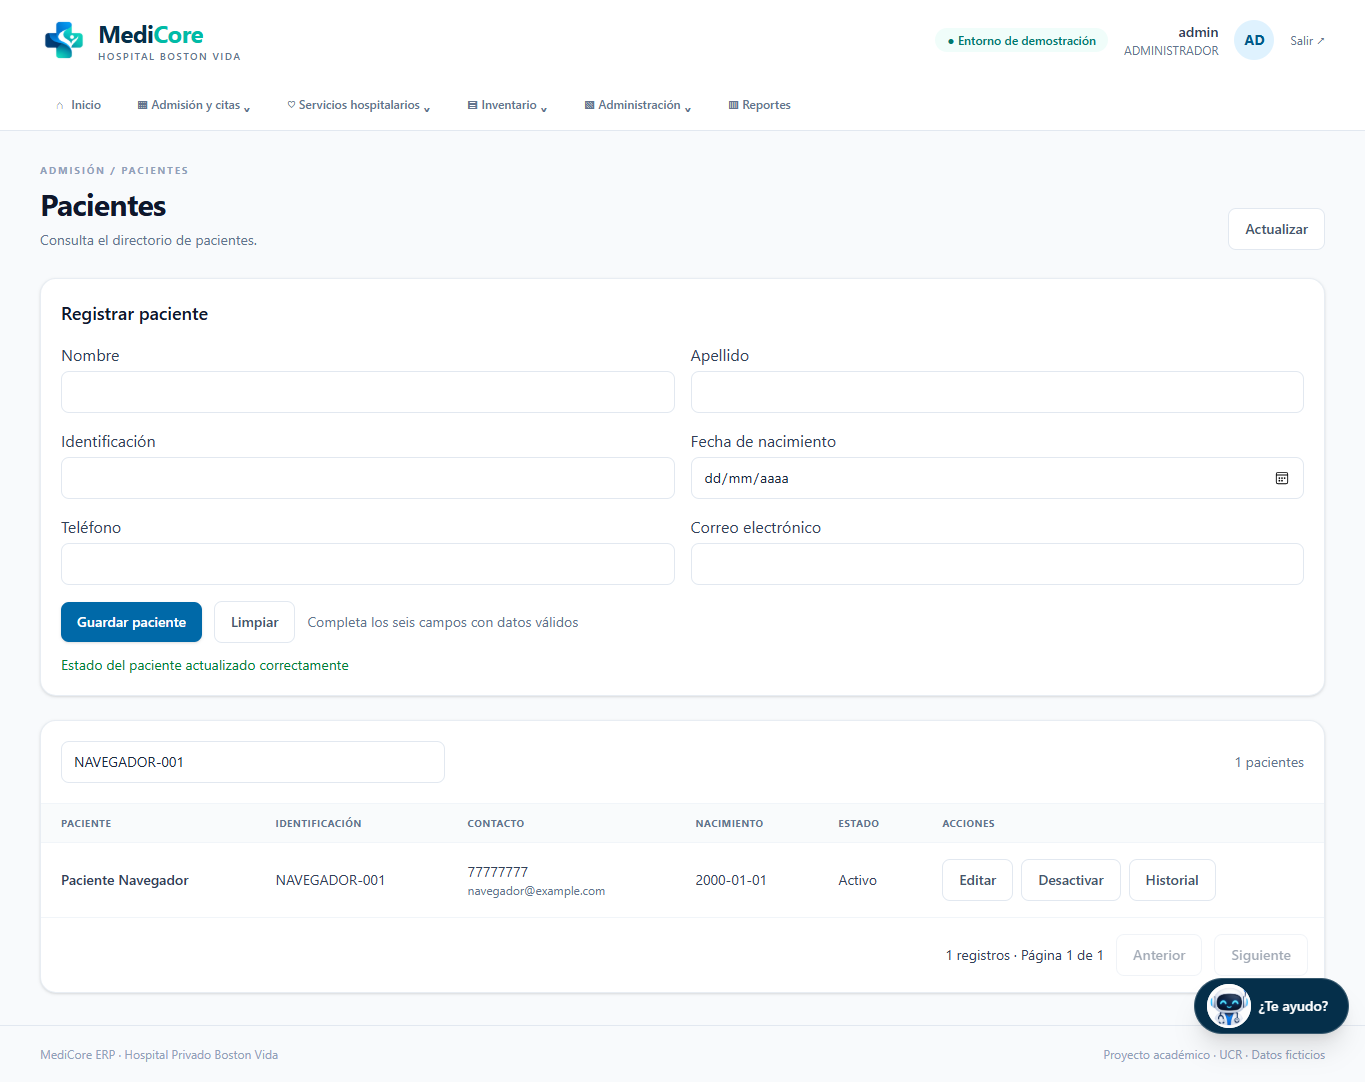
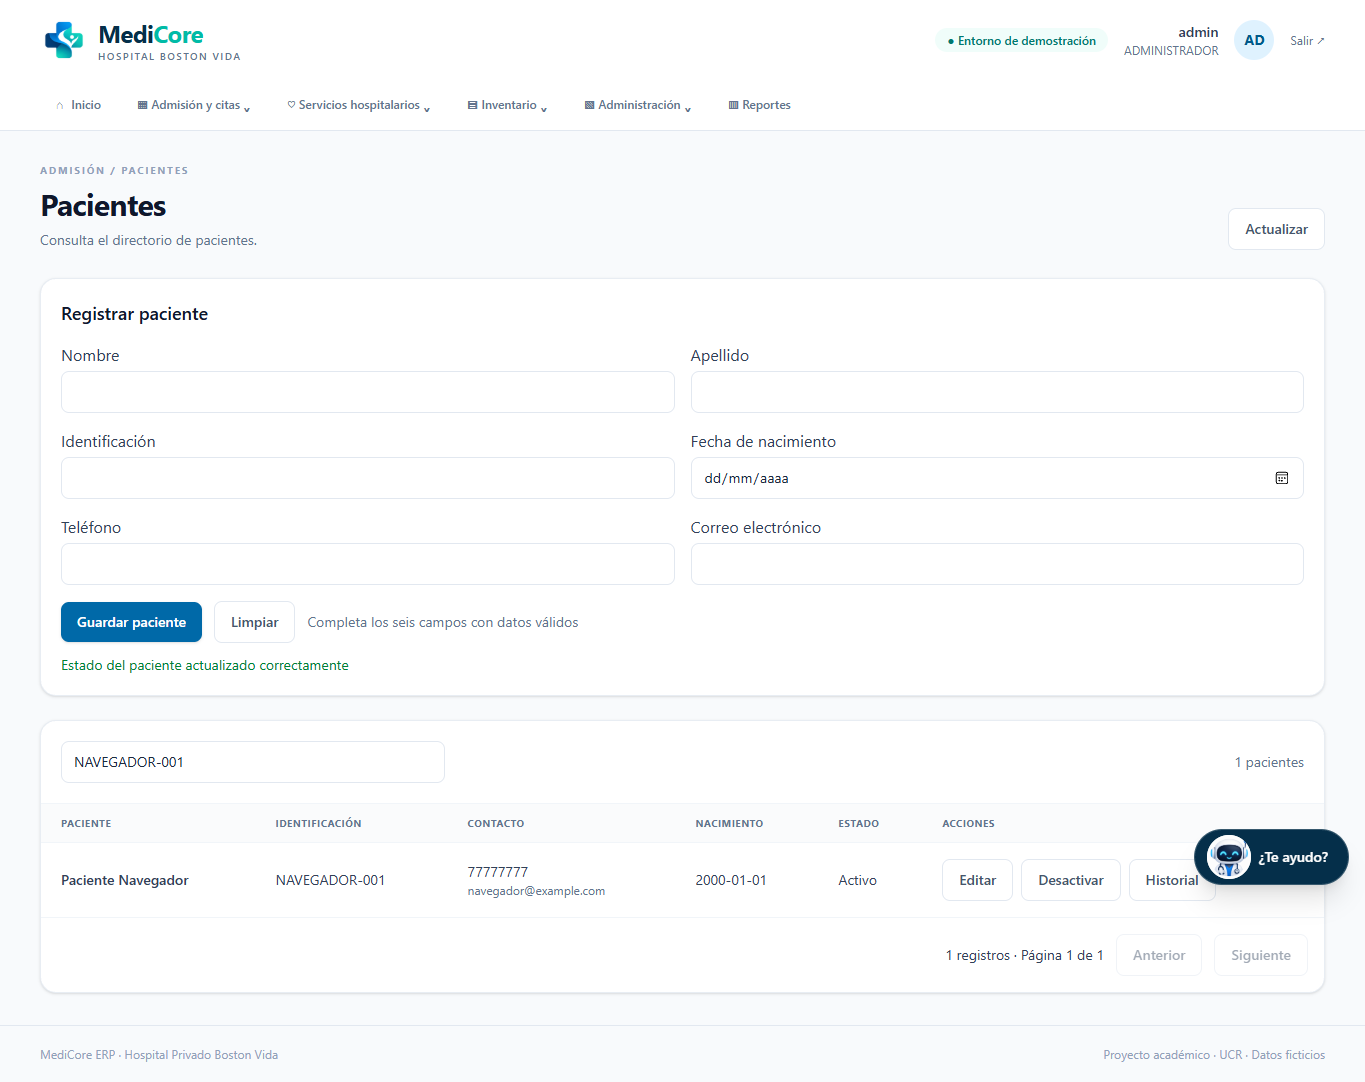
Cambios

Changed region(s): [[0.8615, 0.8845, 1.0, 0.976], [0.8615, 0.7625, 0.9846, 0.8235]]

diff --git a/backend/scripts/verificar-sistema.js b/backend/scripts/verificar-sistema.js
@@ -1,0 +1,152 @@
+import "dotenv/config";
+import assert from "node:assert/strict";
+import { readdir } from "node:fs/promises";
+import prisma from "../src/config/prisma.js";
+import { usuariosBase } from "../prisma/seeds/base/usuarios.seed.js";
+
+// Solo lectura: no siembra, no restablece contraseñas ni modifica registros.
+const base = `http://localhost:${process.env.PORT || 3000}/api`;
+const resultados = [];
+async function comprobar(nombre, accion) {
+  try {
+    const detalle = await accion();
+    resultados.push({ nombre, correcto: true, ...(detalle === undefined ? {} : { detalle }) });
+    console.log(`OK: ${nombre}`);
+  } catch {
+    resultados.push({ nombre, correcto: false });
+    // No imprimir errores de conexión que pudieran contener credenciales.
+    console.error(`FALLO: ${nombre}`);
+  }
+}
+async function pedir(ruta, token, datos) {
+  const respuesta = await fetch(base + ruta, {
+    method: datos ? "POST" : "GET",
+    headers: {
+      ...(token ? { Authorization: `Bearer ${token}` } : {}),
+      ...(datos ? { "Content-Type": "application/json" } : {}),
+    },
+    ...(datos ? { body: JSON.stringify(datos) } : {}),
+    signal: AbortSignal.timeout(10000),
+  });
+  return { status: respuesta.status, body: await respuesta.json() };
+}
+
+try {
+  await comprobar("PostgreSQL responde", async () => { await prisma.$queryRaw`SELECT 1`; });
+  await comprobar("Migraciones aplicadas", async () => {
+    const carpetas = await readdir(new URL("../prisma/migrations/", import.meta.url), { withFileTypes: true });
+    const filas = await prisma.$queryRaw`SELECT migration_name, finished_at, rolled_back_at FROM _prisma_migrations`;
+    for (const carpeta of carpetas.filter((c) => c.isDirectory())) {
+      assert.ok(filas.some((f) => f.migration_name === carpeta.name && f.finished_at && !f.rolled_back_at));
+    }
+    assert.ok(!filas.some((f) => !f.finished_at && !f.rolled_back_at));
+  });
+  await comprobar("API en ejecución conectada a PostgreSQL", async () => {
+    const r = await pedir("/health");
+    assert.equal(r.status, 200);
+    assert.equal(r.body.data.database, "connected");
+  });
+  await comprobar("Frontend en ejecución", async () => {
+    const r = await fetch("http://localhost:4200", { signal: AbortSignal.timeout(10000) });
+    assert.equal(r.status, 200);
+    assert.match(await r.text(), /<html/i);
+  });
+  await comprobar("CORS permite al frontend enviar credenciales Bearer", async () => {
+    const r = await fetch(base + "/auth/me", {
+      method: "OPTIONS",
+      headers: { Origin: "http://localhost:4200", "Access-Control-Request-Method": "GET", "Access-Control-Request-Headers": "authorization" },
+      signal: AbortSignal.timeout(10000),
+    });
+    assert.equal(r.status, 204);
+    assert.equal(r.headers.get("access-control-allow-origin"), "http://localhost:4200");
+    assert.match(r.headers.get("access-control-allow-headers") ?? "", /authorization/i);
+  });
+  await comprobar("Rutas protegidas sin sesión", async () => {
+    for (const ruta of ["/pacientes", "/citas", "/atenciones/paginados", "/insumos", "/usuarios", "/reportes"]) {
+      assert.equal((await pedir(ruta)).status, 401, ruta);
+    }
+  });
+
+  const rutas = {
+    ADMINISTRADOR: ["/pacientes", "/citas", "/medicos", "/atenciones/paginados", "/atenciones/catalogos", "/atenciones/pendientes", "/atenciones/resumen", "/insumos", "/insumos/resumen", "/categorias-insumos", "/movimientos-inventario", "/servicios", "/usuarios", "/reportes"],
+    ADMISION: ["/pacientes", "/citas", "/medicos"],
+    MEDICO: ["/citas", "/medicos", "/atenciones/paginados", "/atenciones/catalogos", "/atenciones/pendientes", "/atenciones/resumen", "/servicios"],
+    INVENTARIO: ["/insumos", "/insumos/resumen", "/categorias-insumos", "/movimientos-inventario"],
+  };
+  for (const usuario of usuariosBase) {
+    await comprobar(`Acceso y consultas: ${usuario.nombre_usuario}`, async () => {
+      assert.ok(process.env[usuario.passwordEnv]);
+      const login = await pedir("/auth/login", null, {
+        nombre_usuario: usuario.nombre_usuario,
+        password: process.env[usuario.passwordEnv],
+      });
+      assert.equal(login.status, 200);
+      const { token, usuario: identidad } = login.body.data;
+      assert.equal(identidad.rol, usuario.rol);
+      for (const ruta of ["/auth/me", "/inicio/resumen", ...rutas[usuario.rol]]) {
+        const r = await pedir(ruta, token);
+        assert.equal(r.status, 200, ruta);
+        if (usuario.rol === "MEDICO" && ["/citas", "/atenciones/paginados", "/atenciones/pendientes"].includes(ruta)) {
+          assert.ok(r.body.data.every((fila) => fila.id_medico === identidad.id_medico));
+        }
+      }
+      if (usuario.rol !== "ADMINISTRADOR") {
+        assert.equal((await pedir("/usuarios", token)).status, 403);
+        assert.equal((await pedir("/reportes", token)).status, 403);
+      } else {
+        // Compara datos de la API que está ejecutándose con DATABASE_URL.
+        for (const [ruta, tabla] of [["/pacientes", "pacientes"], ["/citas", "citas"], ["/usuarios", "usuarios"], ["/medicos", "medicos"], ["/movimientos-inventario", "movimientos_inventario"]]) {
+          assert.equal((await pedir(ruta, token)).body.data.length, await prisma[tabla].count(), ruta);
+        }
+        const reporte = (await pedir("/reportes", token)).body.data;
+        assert.equal(reporte.total_citas, await prisma.citas.count());
+        assert.equal(reporte.total_atenciones, await prisma.atenciones.count());
+        assert.equal(reporte.total_movimientos, await prisma.movimientos_inventario.count());
+        assert.equal((await pedir("/atenciones/paginados", token)).body.paginacion.total_elementos, await prisma.atenciones.count());
+        for (const ruta of ["/insumos/paginados?page=0", "/movimientos-inventario/paginados?page=0", "/citas/paginados?page=9007199254740991", "/citas/resumen?id_medico=9223372036854775808"]) {
+          assert.equal((await pedir(ruta, token)).status, 400, ruta);
+        }
+      }
+      return { rol: identidad.rol, consultas: rutas[usuario.rol].length + 2 };
+    });
+  }
+
+  const integridad = {
+    "Existencias no negativas": "SELECT count(*)::int AS errores FROM insumos WHERE stock_actual < 0",
+    "Existencias coinciden con movimientos": "SELECT count(*)::int AS errores FROM insumos i LEFT JOIN (SELECT id_insumo, SUM(CASE WHEN tipo_movimiento='ENTRADA' THEN cantidad ELSE -cantidad END) AS saldo FROM movimientos_inventario GROUP BY id_insumo) m USING(id_insumo) WHERE i.stock_actual <> COALESCE(m.saldo,0)",
+    "Citas atendidas tienen atención": "SELECT count(*)::int AS errores FROM citas c LEFT JOIN atenciones a USING(id_cita) WHERE c.estado='ATENDIDA' AND a.id_atencion IS NULL",
+    "Atenciones corresponden a citas atendidas": "SELECT count(*)::int AS errores FROM atenciones a JOIN citas c USING(id_cita) WHERE c.estado<>'ATENDIDA'",
+    "Consumos tienen salida de inventario correspondiente": "SELECT count(*)::int AS errores FROM consumo_insumos_atencion c LEFT JOIN movimientos_inventario m USING(id_consumo) WHERE m.id_movimiento IS NULL OR m.cantidad<>c.cantidad OR m.id_insumo<>c.id_insumo OR m.id_atencion<>c.id_atencion OR m.tipo_movimiento<>'SALIDA'",
+    "Médicos sin citas activas solapadas": "SELECT count(*)::int AS errores FROM citas a JOIN citas b ON a.id_cita<b.id_cita AND a.id_medico=b.id_medico AND a.fecha_hora_inicio<b.fecha_hora_fin AND b.fecha_hora_inicio<a.fecha_hora_fin WHERE a.estado IN ('PROGRAMADA','CONFIRMADA') AND b.estado IN ('PROGRAMADA','CONFIRMADA')",
+    "Pacientes sin citas activas solapadas": "SELECT count(*)::int AS errores FROM citas a JOIN citas b ON a.id_cita<b.id_cita AND a.id_paciente=b.id_paciente AND a.fecha_hora_inicio<b.fecha_hora_fin AND b.fecha_hora_inicio<a.fecha_hora_fin WHERE a.estado IN ('PROGRAMADA','CONFIRMADA') AND b.estado IN ('PROGRAMADA','CONFIRMADA')",
+  };
+  for (const [nombre, sql] of Object.entries(integridad)) {
+    await comprobar(nombre, async () => {
+      // SQL constante del propio archivo, sin entrada del usuario.
+      assert.equal((await prisma.$queryRawUnsafe(sql))[0].errores, 0);
+    });
+  }
+  await comprobar("Vistas analíticas consultables y completas", async () => {
+    const vistas = { dim_medicos: "medicos", dim_servicios: "servicios_hospitalarios", dim_insumos: "insumos", fact_citas: "citas", fact_atenciones: "atenciones", fact_servicios: "detalle_atencion_servicios", fact_consumos: "consumo_insumos_atencion", fact_movimientos: "movimientos_inventario" };
+    for (const [vista, tabla] of Object.entries(vistas)) {
+      const filas = await prisma.$queryRawUnsafe(`SELECT count(*)::int AS cantidad FROM analitica.${vista}`);
+      assert.equal(filas[0].cantidad, await prisma[tabla].count(), vista);
+    }
+    const [calendario] = await prisma.$queryRaw`SELECT count(*)::int AS cantidad, count(DISTINCT fecha)::int AS distintas, (max(fecha)-min(fecha)+1)::int AS dias FROM analitica.dim_fecha`;
+    assert.ok(calendario.cantidad > 0);
+    assert.equal(calendario.cantidad, calendario.distintas);
+    assert.equal(calendario.cantidad, calendario.dias);
+    const [cobertura] = await prisma.$queryRaw`
+      SELECT count(*)::int AS faltantes FROM (
+        SELECT fecha FROM analitica.fact_citas UNION
+        SELECT fecha FROM analitica.fact_atenciones UNION
+        SELECT fecha FROM analitica.fact_movimientos
+      ) hechos LEFT JOIN analitica.dim_fecha calendario USING (fecha)
+      WHERE calendario.fecha IS NULL`;
+    assert.equal(cobertura.faltantes, 0);
+  });
+  console.log(JSON.stringify({ resultados, correctas: resultados.filter((r) => r.correcto).length, fallidas: resultados.filter((r) => !r.correcto).length }, null, 2));
+  if (resultados.some((r) => !r.correcto)) process.exitCode = 1;
+} finally {
+  await prisma.$disconnect();
+}

diff --git a/backend/tests/navegador.js b/backend/tests/navegador.js
@@ -28,6 +28,12 @@ export async function comprobarNavegador({
     const context = await browser.newContext({
       viewport: { width: 1365, height: 900 },
     });
+    // Comprueba la integración del visor sin depender de Microsoft ni de su Gateway.
+    let cargasPowerBi = 0;
+    await context.route("https://app.powerbi.com/**", async (route) => {
+      cargasPowerBi++;
+      await route.fulfill({ contentType: "text/html", body: "<!doctype html><title>Visor de prueba</title>" });
+    });
     // La UI real permanece en 4200; solo las peticiones API se dirigen a la base temporal.
     await context.route("http://localhost:3000/api/**", async (route) => {
       const response = await route.fetch({
@@ -37,6 +43,11 @@ export async function comprobarNavegador({
     });
     const page = await context.newPage();
     page.on("pageerror", (e) => errores.push(e.message));
+    page.on("response", (r) => {
+      if (r.url().startsWith("http://localhost:3000/api/") && r.status() >= 400) {
+        errores.push(`${r.status()} ${new URL(r.url()).pathname}`);
+      }
+    });
     async function login(usuario) {
       await page.goto("http://localhost:4200/login");
       await page.locator('[formcontrolname="username"]').fill(usuario);
@@ -201,10 +212,27 @@ export async function comprobarNavegador({
       "medicore-servicios.csv",
     );
     await capturar(page, "reportes-desktop.png");
-    await page.getByRole("button", { name: "Power BI", exact: true }).click();
-    await page
-      .getByText("El equipo todavía debe publicar el informe", { exact: false })
-      .waitFor();
+    await page.getByRole("button", { name: "Análisis OLAP Power BI", exact: true }).click();
+    await page.getByRole("heading", { name: "Análisis multidimensional OLAP", exact: true }).waitFor();
+    const iframe = page.locator("#analisis-olap iframe");
+    if (await iframe.count()) {
+      const src = await iframe.getAttribute("src");
+      assert.equal(new URL(src).hostname, "app.powerbi.com");
+      await page.locator(".report-stage[aria-busy='false']").waitFor();
+      assert.equal(cargasPowerBi, 1);
+      assert.equal(await page.getByRole("link", { name: "Abrir informe en otra pestaña", exact: true }).getAttribute("href"), src);
+      await page.getByRole("button", { name: "Servicios hospitalarios", exact: true }).click();
+      await page.getByRole("button", { name: "Análisis OLAP Power BI", exact: true }).click();
+      assert.equal(cargasPowerBi, 1, "Cambiar de categoría conserva el informe");
+      await Promise.all([
+        page.waitForResponse((r) => r.url() === src),
+        page.getByRole("button", { name: "Recargar visualización", exact: true }).click(),
+      ]);
+      await page.locator(".report-stage[aria-busy='false']").waitFor();
+      assert.equal(cargasPowerBi, 2);
+    } else {
+      await page.getByRole("heading", { name: "Informe no disponible", exact: true }).waitFor();
+    }
     await page.goto("http://localhost:4200/administracion/usuarios");
     await page
       .locator("tbody")
@@ -215,6 +243,28 @@ export async function comprobarNavegador({
     await page
       .getByRole("heading", { name: "Usuarios y roles", exact: true })
       .waitFor();
+    // Recorre todas las pantallas y comprueba permisos desde la URL directa.
+    const rutasPorRol = {
+      admin: ["inicio", "admision/pacientes", "admision/citas", "admision/agenda", "admision/medicos", "servicios/atenciones", "servicios/catalogo", "inventario/insumos", "inventario/movimientos", "administracion/compras", "administracion/finanzas", "administracion/rrhh", "administracion/usuarios", "reportes"],
+      admision: ["inicio", "admision/pacientes", "admision/citas", "admision/agenda", "admision/medicos"],
+      medico: ["inicio", "admision/agenda", "admision/medicos", "servicios/atenciones", "servicios/catalogo"],
+      inventario: ["inicio", "inventario/insumos", "inventario/movimientos"],
+    };
+    for (const [usuario, rutas] of Object.entries(rutasPorRol)) {
+      if (usuario !== "admin") { await salir(); await login(usuario); }
+      for (const ruta of rutas) {
+        await page.goto(`http://localhost:4200/${ruta}`);
+        await page.getByRole("heading", { level: 1 }).waitFor();
+        assert.equal(new URL(page.url()).pathname, `/${ruta}`);
+      }
+      if (usuario !== "admin") {
+        await page.goto("http://localhost:4200/administracion/usuarios");
+        await page.waitForURL("**/inicio");
+      }
+    }
+    await salir();
+    await page.goto("http://localhost:4200/admision/pacientes");
+    await page.waitForURL("**/login?**");
     assert.deepEqual(errores, []);
   } finally {
     await browser.close();

diff --git a/backend/tests/integracion.test.js b/backend/tests/integracion.test.js
@@ -168,6 +168,36 @@ test(
         );
         assert.equal((await pedir("/reportes", tokens.medico)).status, 403);
       });
+      await t.test("paginación y filtros inválidos devuelven 400 sin fallos internos", async () => {
+        for (const ruta of [
+          "/pacientes/paginados",
+          "/citas/paginados",
+          "/citas/agenda/paginados?fecha=2030-01-01",
+          "/insumos/paginados",
+          "/movimientos-inventario/paginados",
+          "/atenciones/paginados",
+        ]) {
+          for (const pagina of ["0", "abc", "1.5", "9007199254740991", "9007199254740992"]) {
+            const r = await pedir(`${ruta}${ruta.includes("?") ? "&" : "?"}page=${pagina}`, tokens.admin);
+            assert.equal(r.status, 400, `${ruta}, página ${pagina}`);
+          }
+        }
+        for (const filtro of [
+          "id_medico=9223372036854775808",
+          "id_medico=1&id_medico=1",
+          "fecha_desde=",
+          "fecha_hasta=",
+          "fecha_desde=2030-02-30",
+          "fecha_desde=2030-02-01&fecha_hasta=2030-01-01",
+        ]) {
+          assert.equal((await pedir(`/citas/resumen?${filtro}`, tokens.admin)).status, 400, filtro);
+        }
+        for (const ruta of ["/pacientes/paginados", "/citas/paginados", "/insumos/paginados", "/movimientos-inventario/paginados", "/atenciones/paginados"]) {
+          const r = await pedir(`${ruta}?page=1`, tokens.admin);
+          assert.equal(r.status, 200, ruta);
+          assert.ok(Array.isArray(r.body.data), ruta);
+        }
+      });
       let paciente;
       const datosPaciente = {
         nombre: "Paciente",

diff --git a/backend/src/services/citas.service.js b/backend/src/services/citas.service.js
@@ -532,7 +532,7 @@ const ESTADOS_CITA = [
 ];
 
 function fechaValida(valor) {
-  if (!/^\d{4}-\d{2}-\d{2}$/.test(valor)) return false;
+  if (typeof valor !== "string" || !/^\d{4}-\d{2}-\d{2}$/.test(valor)) return false;
 
   const fecha = new Date(`${valor}T00:00:00.000Z`);
 
@@ -557,13 +557,13 @@ function construirFiltrosResumen(query) {
   const { fecha_desde, fecha_hasta, id_medico } = query;
   const where = {};
 
-  if (fecha_desde && !fechaValida(fecha_desde)) {
+  if (fecha_desde !== undefined && !fechaValida(fecha_desde)) {
     const error = new Error("fecha_desde debe tener formato YYYY-MM-DD");
     error.status = 400;
     throw error;
   }
 
-  if (fecha_hasta && !fechaValida(fecha_hasta)) {
+  if (fecha_hasta !== undefined && !fechaValida(fecha_hasta)) {
     const error = new Error("fecha_hasta debe tener formato YYYY-MM-DD");
     error.status = 400;
     throw error;
@@ -588,13 +588,10 @@ function construirFiltrosResumen(query) {
   }
 
   if (id_medico !== undefined) {
-    if (!/^[1-9]\d*$/.test(String(id_medico))) {
-      const error = new Error("id_medico debe ser un ID válido");
-      error.status = 400;
-      throw error;
+    if (typeof id_medico !== "string") {
+      throw new CitaError("id_medico debe ser un ID válido");
     }
-
-    where.id_medico = BigInt(id_medico);
+    where.id_medico = validarId(id_medico, "id_medico");
   }
 
   return where;

diff --git a/backend/src/services/paginacion.utils.js b/backend/src/services/paginacion.utils.js
@@ -1,21 +1,29 @@
+export class PaginacionError extends Error {
+  constructor(message) {
+    super(message);
+    this.name = "PaginacionError";
+    this.status = 400;
+  }
+}
+
 export const obtenerPaginacion = (page = "1", limite = 10) => {
   if (
     typeof page !== "string" ||
     !/^[1-9]\d*$/.test(page)
   ) {
-    throw new Error("El número de página debe ser un entero positivo");
+    throw new PaginacionError("El número de página debe ser un entero positivo");
   }
 
   const pagina = Number(page);
 
   if (!Number.isSafeInteger(pagina)) {
-    throw new Error("Número de página inválido");
+    throw new PaginacionError("Número de página inválido");
   }
 
   const skip = (pagina - 1) * limite;
 
   if (!Number.isSafeInteger(skip)) {
-    throw new Error("Número de página fuera de rango");
+    throw new PaginacionError("Número de página fuera de rango");
   }
 
   return {

diff --git a/backend/src/controllers/movimientos-inventario.controller.js b/backend/src/controllers/movimientos-inventario.controller.js
@@ -6,9 +6,10 @@ import {
 } from "../services/movimientos-inventario.service.js";
 
 import { InventarioError } from "../services/inventario.utils.js";
+import { PaginacionError } from "../services/paginacion.utils.js";
 
 const manejarError = (error, res) => {
-    if (error instanceof InventarioError) {
+    if (error instanceof InventarioError || error instanceof PaginacionError) {
         return res.status(error.status).json({
             message: error.message
         });

diff --git a/backend/src/controllers/insumos.controller.js b/backend/src/controllers/insumos.controller.js
@@ -11,9 +11,10 @@ import {
 } from "../services/insumos.service.js";
 
 import { InventarioError } from "../services/inventario.utils.js";
+import { PaginacionError } from "../services/paginacion.utils.js";
 
 const manejarError = (error, res) => {
-  if (error instanceof InventarioError) {
+  if (error instanceof InventarioError || error instanceof PaginacionError) {
     return res.status(error.status).json({
       message: error.message
     });

diff --git a/backend/src/controllers/citas.controller.js b/backend/src/controllers/citas.controller.js
@@ -1,5 +1,6 @@
 // citas.controller.js
 import { Prisma } from "@prisma/client";
+import { PaginacionError } from "../services/paginacion.utils.js";
 
 import {
   registrarCita,
@@ -16,6 +17,7 @@ import {
 
 const manejarError = (error, res) => {
   if (
+    error instanceof PaginacionError ||
     error instanceof RangeError ||
     error.message?.startsWith("El número de página") ||
     error.message === "Número de página inválido"
